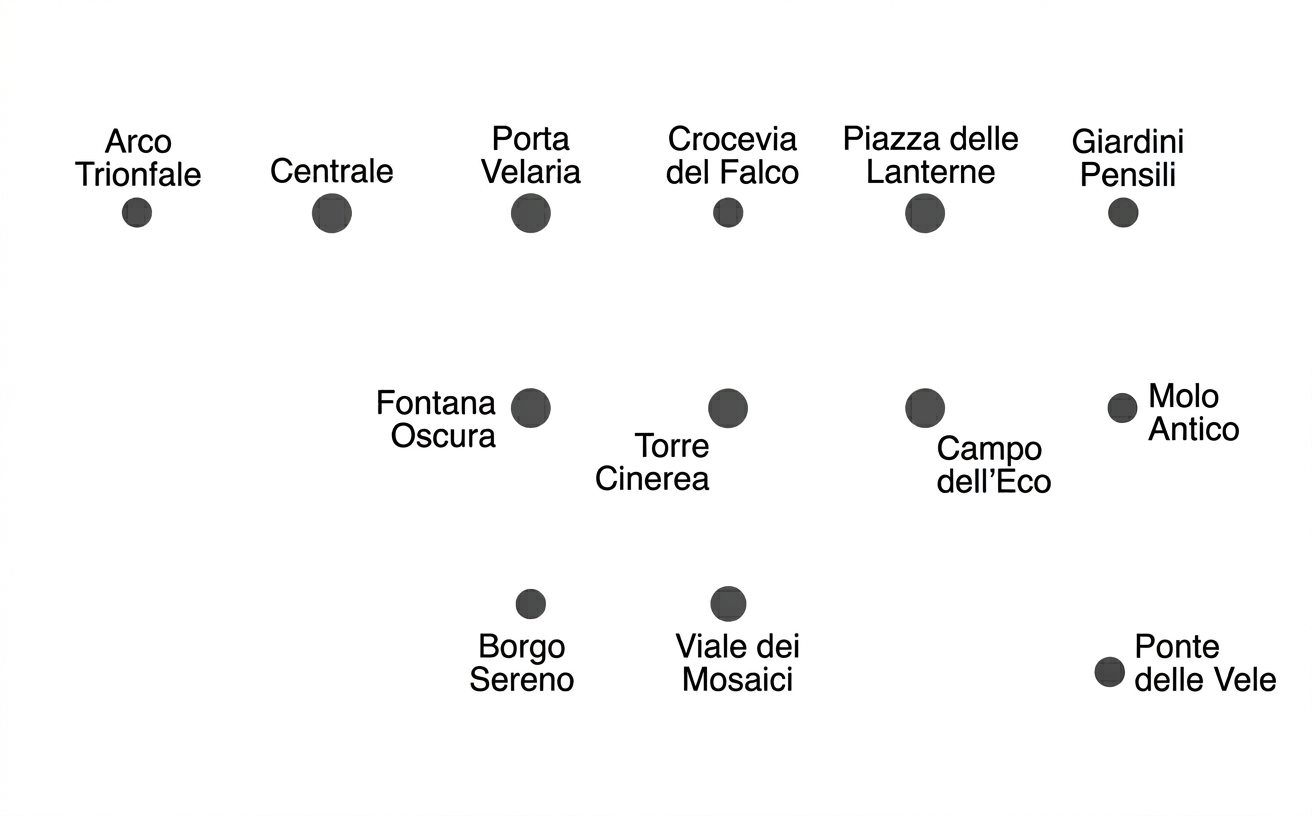
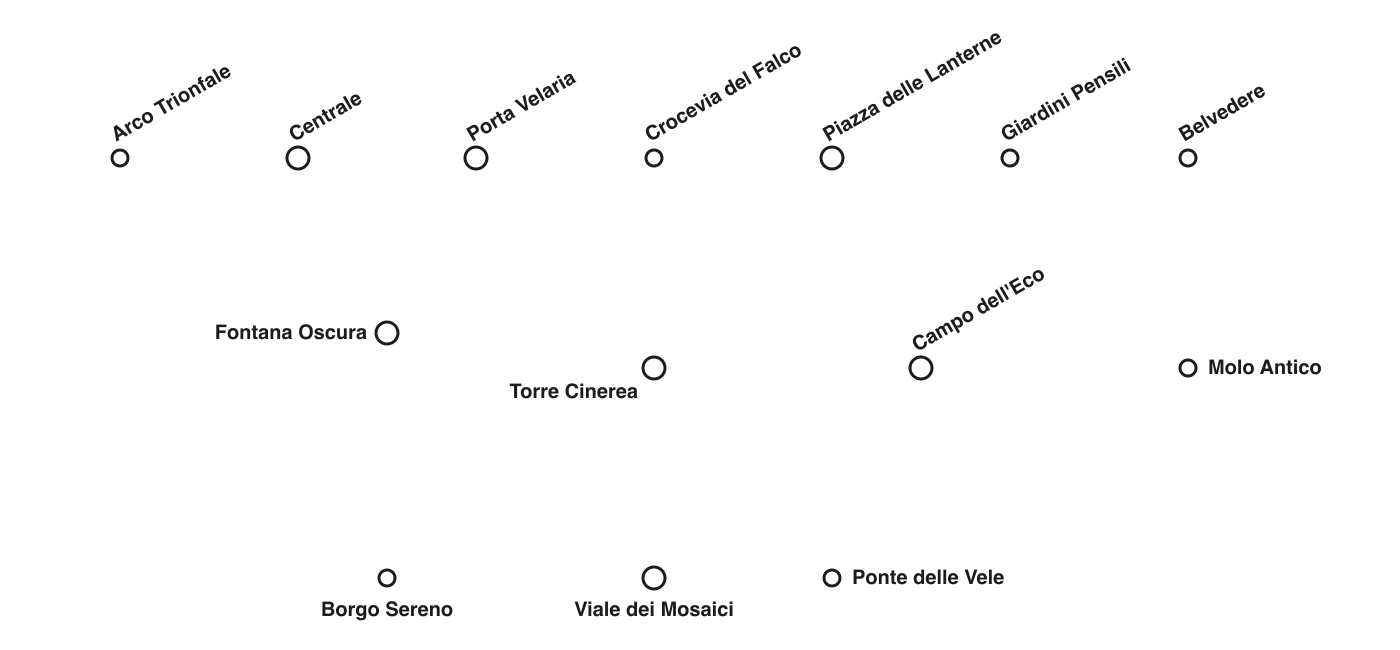
fix: interchange stations to total number of stations constraint

diff --git a/server/init_db.js b/server/init_db.js
@@ -62,7 +62,7 @@ await db.exec(`
 
 // 2) DATI DELLA RETE
 const network = {
-  'Red Line': ['Centrale', 'Porta Velaria', 'Crocevia del Falco', 'Piazza delle Lanterne', 'Giardini Pensili'],
+  'Red Line': ['Centrale', 'Porta Velaria', 'Crocevia del Falco', 'Piazza delle Lanterne', 'Giardini Pensili', 'Belvedere'],
   'Blue Line': ['Arco Trionfale', 'Centrale', 'Fontana Oscura', 'Borgo Sereno', 'Viale dei Mosaici'],
   'Green Line': ['Porta Velaria', 'Fontana Oscura', 'Torre Cinerea', "Campo dell'Eco", 'Molo Antico'],
   'Yellow Line': ['Ponte delle Vele', 'Piazza delle Lanterne', 'Torre Cinerea', 'Viale dei Mosaici', "Campo dell'Eco"],

diff --git a/README.md b/README.md
@@ -134,4 +134,6 @@ During an execution:
 - `carol`, `carol123` (registered, has not played yet)
 
 ## Use of AI Tools
-I used an AI coding assistant (Claude Code by Anthropic) as a support tool to: clarify the track requirements, discuss design trade-offs, speed up some boilerplate, and review my code step by step. I am able to explain and justify every line of the project.
+I used an AI coding assistant (Claude Code by Anthropic) as a support tool to: clarify the track requirements, discuss design trade-offs, speed up some boilerplate, and review my code.
+I also used the same AI tool to generate the network maps [planning-map.png](./client/public/planning-map.png) and [setup-map.png](./client/public/setup-map.png).
+I am able to explain and justify each part of the project.
